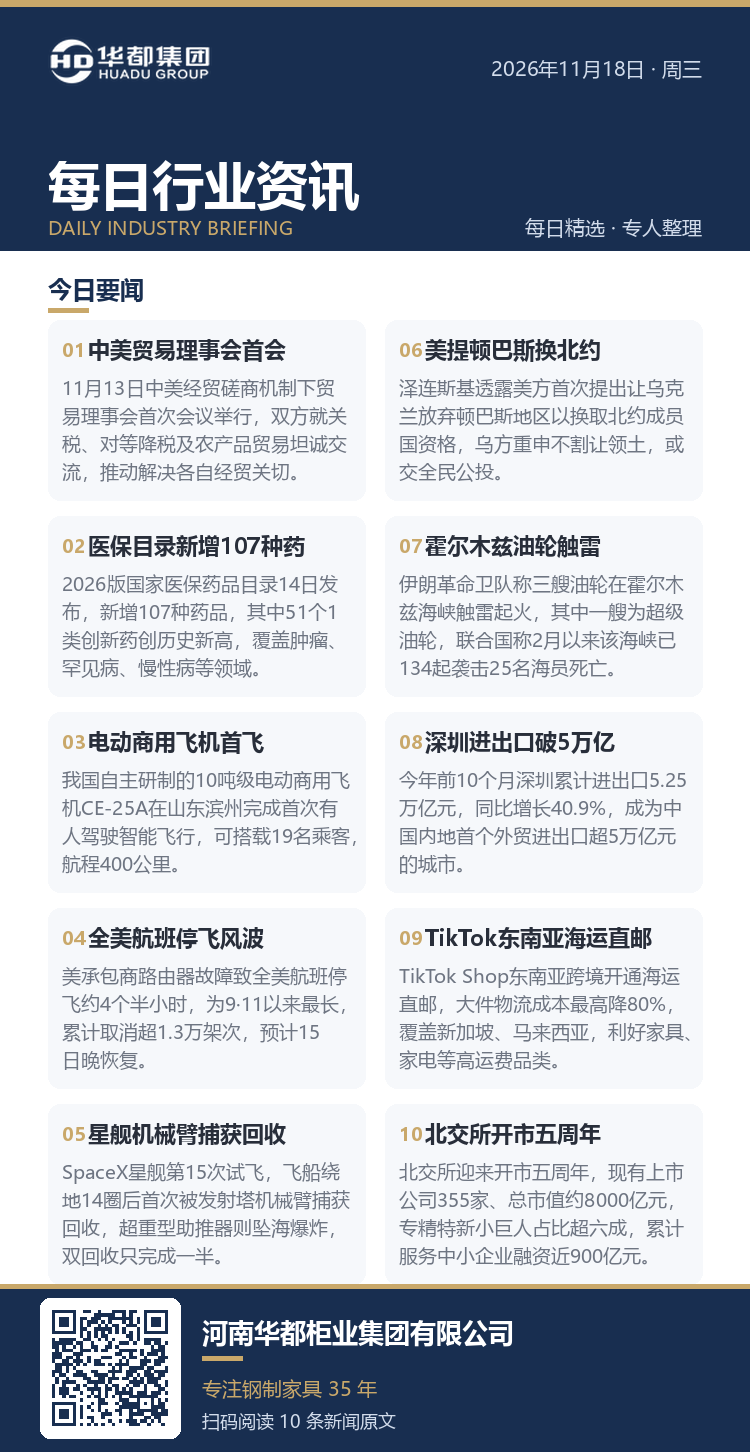
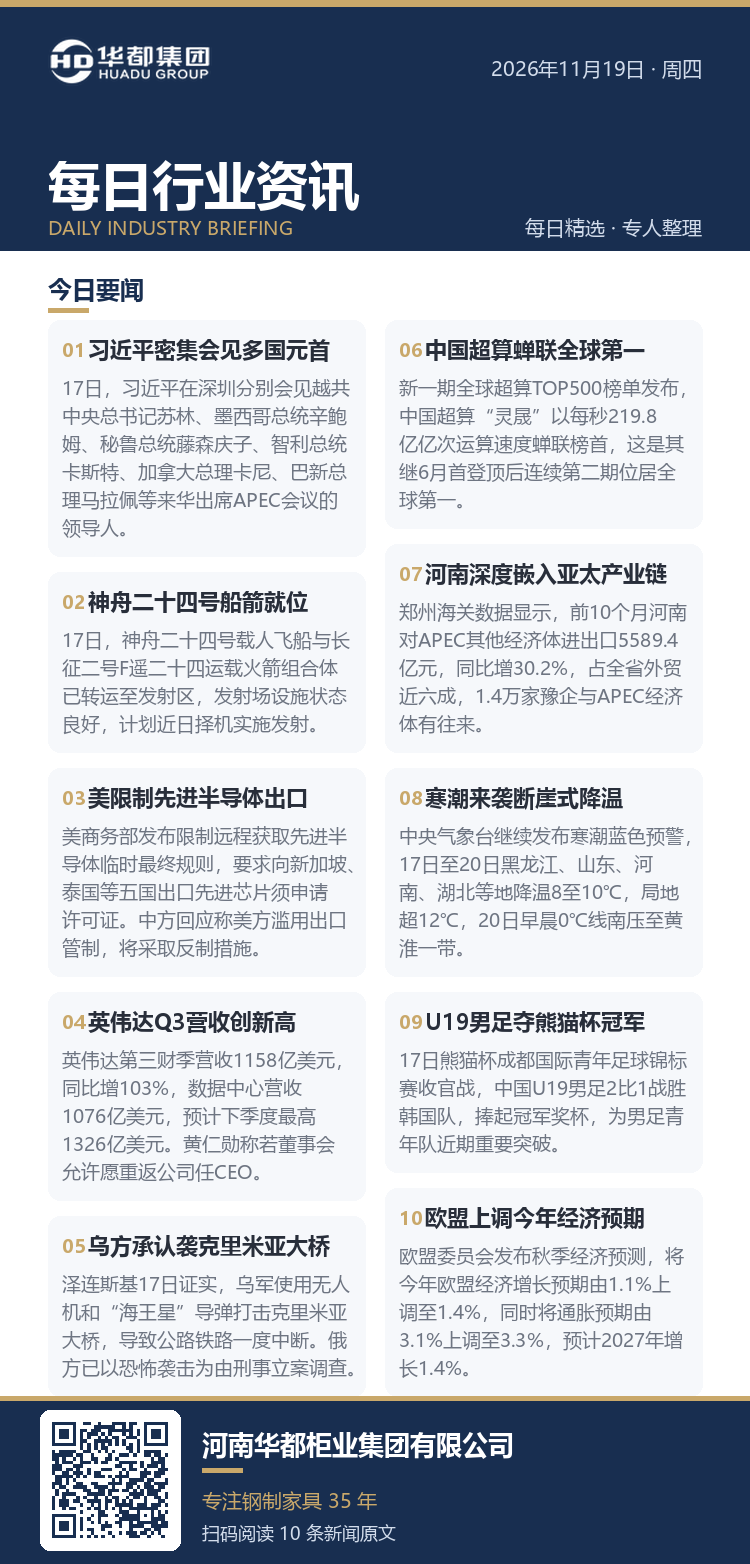
poster 2026-11-19

diff --git a/docs/index.html b/docs/index.html
@@ -1,7 +1,7 @@
 <!DOCTYPE html>
 <html lang="zh-CN"><head><meta charset="utf-8">
 <meta name="viewport" content="width=device-width,initial-scale=1,viewport-fit=cover">
-<title>华都每日行业资讯 · 2026-11-18</title>
+<title>华都每日行业资讯 · 2026-11-19</title>
 <style>
 * { margin:0; padding:0; box-sizing:border-box; }
 body { font-family:-apple-system,'PingFang SC','Microsoft YaHei',sans-serif;
@@ -34,13 +34,13 @@ body { font-family:-apple-system,'PingFang SC','Microsoft YaHei',sans-serif;
 </style></head><body>
 <div class="header"><div class="wrap">
 <h1>每日行业资讯</h1><div class="sub">DAILY INDUSTRY BRIEFING</div>
-<div class="date">2026-11-18 · 周三 · 每日精选 专人整理</div>
+<div class="date">2026-11-19 · 周四 · 每日精选 专人整理</div>
 </div></div>
 <div class="poster wrap">
 <div class="tip">👇 今日海报（长按图片即可保存 / 转发同事群）</div>
 <img src="latest.png" alt="今日行业资讯海报">
 </div>
-<div class="list wrap"><div class="sect">今日要闻</div><div class="card"><span class="no">01</span><h2>中美贸易理事会首会</h2><p>11月13日中美经贸磋商机制下贸易理事会首次会议举行，双方就关税、对等降税及农产品贸易坦诚交流，推动解决各自经贸关切。</p><div class="meta"><span class="src">新华社</span><a href="https://www.cnfin.com/yw-lb/detail/20261115/4495779_1.html" target="_blank" rel="noopener">阅读原文 →</a></div></div><div class="card"><span class="no">02</span><h2>医保目录新增107种药</h2><p>2026版国家医保药品目录14日发布，新增107种药品，其中51个1类创新药创历史新高，覆盖肿瘤、罕见病、慢性病等领域。</p><div class="meta"><span class="src">央视新闻</span><a href="https://news.bjd.com.cn/2026/11/15/12031029.shtml" target="_blank" rel="noopener">阅读原文 →</a></div></div><div class="card"><span class="no">03</span><h2>电动商用飞机首飞</h2><p>我国自主研制的10吨级电动商用飞机CE-25A在山东滨州完成首次有人驾驶智能飞行，可搭载19名乘客，航程400公里。</p><div class="meta"><span class="src">新华社</span><a href="https://www.cnfin.com/yw-lb/detail/20261115/4495779_1.html" target="_blank" rel="noopener">阅读原文 →</a></div></div><div class="card"><span class="no">04</span><h2>全美航班停飞风波</h2><p>美承包商路由器故障致全美航班停飞约4个半小时，为9·11以来最长，累计取消超1.3万架次，预计15日晚恢复。</p><div class="meta"><span class="src">央视新闻</span><a href="https://cbgc.scol.com.cn/news/8144454" target="_blank" rel="noopener">阅读原文 →</a></div></div><div class="card"><span class="no">05</span><h2>星舰机械臂捕获回收</h2><p>SpaceX星舰第15次试飞，飞船绕地14圈后首次被发射塔机械臂捕获回收，超重型助推器则坠海爆炸，双回收只完成一半。</p><div class="meta"><span class="src">每日经济新闻</span><a href="https://www.nbd.com.cn/articles/2026-11-14/4647866.html" target="_blank" rel="noopener">阅读原文 →</a></div></div><div class="card"><span class="no">06</span><h2>美提顿巴斯换北约</h2><p>泽连斯基透露美方首次提出让乌克兰放弃顿巴斯地区以换取北约成员国资格，乌方重申不割让领土，或交全民公投。</p><div class="meta"><span class="src">央视新闻</span><a href="https://www.nbd.com.cn/articles/2026-11-14/4647866.html" target="_blank" rel="noopener">阅读原文 →</a></div></div><div class="card"><span class="no">07</span><h2>霍尔木兹油轮触雷</h2><p>伊朗革命卫队称三艘油轮在霍尔木兹海峡触雷起火，其中一艘为超级油轮，联合国称2月以来该海峡已134起袭击25名海员死亡。</p><div class="meta"><span class="src">央视新闻</span><a href="https://www.nbd.com.cn/articles/2026-11-14/4647866.html" target="_blank" rel="noopener">阅读原文 →</a></div></div><div class="card"><span class="no">08</span><h2>深圳进出口破5万亿</h2><p>今年前10个月深圳累计进出口5.25万亿元，同比增长40.9%，成为中国内地首个外贸进出口超5万亿元的城市。</p><div class="meta"><span class="src">经济日报</span><a href="http://mp.weixin.qq.com/s?__biz=MjM5NjEyMzYxMg==&mid=2657820191&idx=1&sn=fd7eda43c5b2ea74f1951795e545512b&chksm=bc64c02e45f5c7a129482b9fa3f4c7163fbcae2037669d9091a12d9629f30f01449dc3c97c90#rd" target="_blank" rel="noopener">阅读原文 →</a></div></div><div class="card"><span class="no">09</span><h2>TikTok东南亚海运直邮</h2><p>TikTok Shop东南亚跨境开通海运直邮，大件物流成本最高降80%，覆盖新加坡、马来西亚，利好家具、家电等高运费品类。</p><div class="meta"><span class="src">36氪</span><a href="https://36kr.com/p/4070479711015809" target="_blank" rel="noopener">阅读原文 →</a></div></div><div class="card"><span class="no">10</span><h2>北交所开市五周年</h2><p>北交所迎来开市五周年，现有上市公司355家、总市值约8000亿元，专精特新小巨人占比超六成，累计服务中小企业融资近900亿元。</p><div class="meta"><span class="src">央视新闻</span><a href="https://www.cnfin.com/yw-lb/detail/20261115/4495779_1.html" target="_blank" rel="noopener">阅读原文 →</a></div></div></div>
+<div class="list wrap"><div class="sect">今日要闻</div><div class="card"><span class="no">01</span><h2>习近平密集会见多国元首</h2><p>17日，习近平在深圳分别会见越共中央总书记苏林、墨西哥总统辛鲍姆、秘鲁总统藤森庆子、智利总统卡斯特、加拿大总理卡尼、巴新总理马拉佩等来华出席APEC会议的领导人。</p><div class="meta"><span class="src">北京日报</span><a href="https://pc.bjd.com.cn/detail?id=s6afce713e4b039a8e2f3c122" target="_blank" rel="noopener">阅读原文 →</a></div></div><div class="card"><span class="no">02</span><h2>神舟二十四号船箭就位</h2><p>17日，神舟二十四号载人飞船与长征二号F遥二十四运载火箭组合体已转运至发射区，发射场设施状态良好，计划近日择机实施发射。</p><div class="meta"><span class="src">北京日报</span><a href="https://pc.bjd.com.cn/detail?id=s6afce713e4b039a8e2f3c122" target="_blank" rel="noopener">阅读原文 →</a></div></div><div class="card"><span class="no">03</span><h2>美限制先进半导体出口</h2><p>美商务部发布限制远程获取先进半导体临时最终规则，要求向新加坡、泰国等五国出口先进芯片须申请许可证。中方回应称美方滥用出口管制，将采取反制措施。</p><div class="meta"><span class="src">央广网</span><a href="https://www.cnr.cn/jingji/ycbd/20261118/t20261118_527876265.shtml" target="_blank" rel="noopener">阅读原文 →</a></div></div><div class="card"><span class="no">04</span><h2>英伟达Q3营收创新高</h2><p>英伟达第三财季营收1158亿美元，同比增103%，数据中心营收1076亿美元，预计下季度最高1326亿美元。黄仁勋称若董事会允许愿重返公司任CEO。</p><div class="meta"><span class="src">东方财富网</span><a href="https://www.cnr.cn/jingji/ycbd/20261118/t20261118_527876265.shtml" target="_blank" rel="noopener">阅读原文 →</a></div></div><div class="card"><span class="no">05</span><h2>乌方承认袭克里米亚大桥</h2><p>泽连斯基17日证实，乌军使用无人机和“海王星”导弹打击克里米亚大桥，导致公路铁路一度中断。俄方已以恐怖袭击为由刑事立案调查。</p><div class="meta"><span class="src">每日经济新闻</span><a href="https://www.mrjjxw.com/articles/2026-11-18/4650861.html" target="_blank" rel="noopener">阅读原文 →</a></div></div><div class="card"><span class="no">06</span><h2>中国超算蝉联全球第一</h2><p>新一期全球超算TOP500榜单发布，中国超算“灵晟”以每秒219.8亿亿次运算速度蝉联榜首，这是其继6月首登顶后连续第二期位居全球第一。</p><div class="meta"><span class="src">北京日报</span><a href="https://pc.bjd.com.cn/detail?id=s6afce713e4b039a8e2f3c122" target="_blank" rel="noopener">阅读原文 →</a></div></div><div class="card"><span class="no">07</span><h2>河南深度嵌入亚太产业链</h2><p>郑州海关数据显示，前10个月河南对APEC其他经济体进出口5589.4亿元，同比增30.2%，占全省外贸近六成，1.4万家豫企与APEC经济体有往来。</p><div class="meta"><span class="src">河南日报</span><a href="https://dzb.henandaily.cn/html5/2026-11/18/content_10_1820147.htm" target="_blank" rel="noopener">阅读原文 →</a></div></div><div class="card"><span class="no">08</span><h2>寒潮来袭断崖式降温</h2><p>中央气象台继续发布寒潮蓝色预警，17日至20日黑龙江、山东、河南、湖北等地降温8至10℃，局地超12℃，20日早晨0℃线南压至黄淮一带。</p><div class="meta"><span class="src">贵州改革</span><a href="http://mp.weixin.qq.com/s?__biz=MzIzNDYxNTcxOA==&mid=2247827865&idx=1&sn=04991b62a19219b16ac79dc9bd45848c&chksm=e96c1fd5104734226dbe063b6353731511a03c3155cf39c3df1beae92b1fc0e781234582cd9f#rd" target="_blank" rel="noopener">阅读原文 →</a></div></div><div class="card"><span class="no">09</span><h2>U19男足夺熊猫杯冠军</h2><p>17日熊猫杯成都国际青年足球锦标赛收官战，中国U19男足2比1战胜韩国队，捧起冠军奖杯，为男足青年队近期重要突破。</p><div class="meta"><span class="src">贵州改革</span><a href="http://mp.weixin.qq.com/s?__biz=MzIzNDYxNTcxOA==&mid=2247827865&idx=1&sn=04991b62a19219b16ac79dc9bd45848c&chksm=e96c1fd5104734226dbe063b6353731511a03c3155cf39c3df1beae92b1fc0e781234582cd9f#rd" target="_blank" rel="noopener">阅读原文 →</a></div></div><div class="card"><span class="no">10</span><h2>欧盟上调今年经济预期</h2><p>欧盟委员会发布秋季经济预测，将今年欧盟经济增长预期由1.1%上调至1.4%，同时将通胀预期由3.1%上调至3.3%，预计2027年增长1.4%。</p><div class="meta"><span class="src">新华社</span><a href="https://www.mrjjxw.com/articles/2026-11-18/4650861.html" target="_blank" rel="noopener">阅读原文 →</a></div></div></div>
 <div class="tip">点击「阅读原文」查看各家媒体报道全文</div>
 <div class="footer"><div class="co">河南华都柜业集团有限公司</div>
 <div class="slogan">专注钢制家具 35 年</div></div>

diff --git a/docs/2026-11-19.html b/docs/2026-11-19.html
@@ -1,0 +1,47 @@
+<!DOCTYPE html>
+<html lang="zh-CN"><head><meta charset="utf-8">
+<meta name="viewport" content="width=device-width,initial-scale=1,viewport-fit=cover">
+<title>华都每日行业资讯 · 2026-11-19</title>
+<style>
+* { margin:0; padding:0; box-sizing:border-box; }
+body { font-family:-apple-system,'PingFang SC','Microsoft YaHei',sans-serif;
+       background:#EEF1F5; color:#282E3A; -webkit-font-smoothing:antialiased; }
+.header { background:#182E50; padding:34px 20px 26px; border-bottom:4px solid #C9A86A; }
+.header h1 { color:#fff; font-size:26px; letter-spacing:1px; }
+.header .sub { color:#C9A86A; font-size:12px; letter-spacing:3px; margin-top:6px; }
+.header .date { color:#D2DCEB; font-size:13px; margin-top:14px; }
+.wrap { max-width:640px; margin:0 auto; }
+.poster { padding:16px 14px 4px; }
+.poster .tip { text-align:center; font-size:13px; color:#C9A86A; font-weight:600;
+               background:#fff; border:1px dashed #C9A86A; border-radius:10px;
+               padding:9px 10px; margin-bottom:10px; }
+.poster img { display:block; width:100%; height:auto; border-radius:12px;
+              box-shadow:0 2px 8px rgba(24,46,80,.15); }
+.list { padding:16px 14px 8px; }
+.sect { font-size:18px; font-weight:700; color:#182E50; padding:6px 2px 10px; }
+.card { background:#fff; border-radius:12px; padding:16px 16px 14px; margin-bottom:12px;
+        box-shadow:0 1px 3px rgba(24,46,80,.08); }
+.card .no { display:inline-block; color:#C9A86A; font-weight:700; font-size:14px; }
+.card h2 { font-size:17px; line-height:1.45; margin:4px 0 8px; }
+.card p { font-size:14px; line-height:1.75; color:#6E7582; }
+.card .meta { margin-top:10px; display:flex; justify-content:space-between; align-items:center; }
+.card .src { font-size:12px; color:#6E7582; background:#F6F8FB; padding:3px 10px; border-radius:10px; }
+.card a { font-size:13px; color:#182E50; font-weight:600; text-decoration:none; }
+.tip { text-align:center; font-size:12px; color:#6E7582; padding:4px 0 18px; }
+.footer { background:#182E50; color:#fff; text-align:center; padding:22px 16px 26px; border-top:4px solid #C9A86A; }
+.footer .co { font-size:15px; font-weight:700; }
+.footer .slogan { color:#C9A86A; font-size:12px; margin-top:6px; letter-spacing:2px; }
+</style></head><body>
+<div class="header"><div class="wrap">
+<h1>每日行业资讯</h1><div class="sub">DAILY INDUSTRY BRIEFING</div>
+<div class="date">2026-11-19 · 周四 · 每日精选 专人整理</div>
+</div></div>
+<div class="poster wrap">
+<div class="tip">👇 今日海报（长按图片即可保存 / 转发同事群）</div>
+<img src="latest.png" alt="今日行业资讯海报">
+</div>
+<div class="list wrap"><div class="sect">今日要闻</div><div class="card"><span class="no">01</span><h2>习近平密集会见多国元首</h2><p>17日，习近平在深圳分别会见越共中央总书记苏林、墨西哥总统辛鲍姆、秘鲁总统藤森庆子、智利总统卡斯特、加拿大总理卡尼、巴新总理马拉佩等来华出席APEC会议的领导人。</p><div class="meta"><span class="src">北京日报</span><a href="https://pc.bjd.com.cn/detail?id=s6afce713e4b039a8e2f3c122" target="_blank" rel="noopener">阅读原文 →</a></div></div><div class="card"><span class="no">02</span><h2>神舟二十四号船箭就位</h2><p>17日，神舟二十四号载人飞船与长征二号F遥二十四运载火箭组合体已转运至发射区，发射场设施状态良好，计划近日择机实施发射。</p><div class="meta"><span class="src">北京日报</span><a href="https://pc.bjd.com.cn/detail?id=s6afce713e4b039a8e2f3c122" target="_blank" rel="noopener">阅读原文 →</a></div></div><div class="card"><span class="no">03</span><h2>美限制先进半导体出口</h2><p>美商务部发布限制远程获取先进半导体临时最终规则，要求向新加坡、泰国等五国出口先进芯片须申请许可证。中方回应称美方滥用出口管制，将采取反制措施。</p><div class="meta"><span class="src">央广网</span><a href="https://www.cnr.cn/jingji/ycbd/20261118/t20261118_527876265.shtml" target="_blank" rel="noopener">阅读原文 →</a></div></div><div class="card"><span class="no">04</span><h2>英伟达Q3营收创新高</h2><p>英伟达第三财季营收1158亿美元，同比增103%，数据中心营收1076亿美元，预计下季度最高1326亿美元。黄仁勋称若董事会允许愿重返公司任CEO。</p><div class="meta"><span class="src">东方财富网</span><a href="https://www.cnr.cn/jingji/ycbd/20261118/t20261118_527876265.shtml" target="_blank" rel="noopener">阅读原文 →</a></div></div><div class="card"><span class="no">05</span><h2>乌方承认袭克里米亚大桥</h2><p>泽连斯基17日证实，乌军使用无人机和“海王星”导弹打击克里米亚大桥，导致公路铁路一度中断。俄方已以恐怖袭击为由刑事立案调查。</p><div class="meta"><span class="src">每日经济新闻</span><a href="https://www.mrjjxw.com/articles/2026-11-18/4650861.html" target="_blank" rel="noopener">阅读原文 →</a></div></div><div class="card"><span class="no">06</span><h2>中国超算蝉联全球第一</h2><p>新一期全球超算TOP500榜单发布，中国超算“灵晟”以每秒219.8亿亿次运算速度蝉联榜首，这是其继6月首登顶后连续第二期位居全球第一。</p><div class="meta"><span class="src">北京日报</span><a href="https://pc.bjd.com.cn/detail?id=s6afce713e4b039a8e2f3c122" target="_blank" rel="noopener">阅读原文 →</a></div></div><div class="card"><span class="no">07</span><h2>河南深度嵌入亚太产业链</h2><p>郑州海关数据显示，前10个月河南对APEC其他经济体进出口5589.4亿元，同比增30.2%，占全省外贸近六成，1.4万家豫企与APEC经济体有往来。</p><div class="meta"><span class="src">河南日报</span><a href="https://dzb.henandaily.cn/html5/2026-11/18/content_10_1820147.htm" target="_blank" rel="noopener">阅读原文 →</a></div></div><div class="card"><span class="no">08</span><h2>寒潮来袭断崖式降温</h2><p>中央气象台继续发布寒潮蓝色预警，17日至20日黑龙江、山东、河南、湖北等地降温8至10℃，局地超12℃，20日早晨0℃线南压至黄淮一带。</p><div class="meta"><span class="src">贵州改革</span><a href="http://mp.weixin.qq.com/s?__biz=MzIzNDYxNTcxOA==&mid=2247827865&idx=1&sn=04991b62a19219b16ac79dc9bd45848c&chksm=e96c1fd5104734226dbe063b6353731511a03c3155cf39c3df1beae92b1fc0e781234582cd9f#rd" target="_blank" rel="noopener">阅读原文 →</a></div></div><div class="card"><span class="no">09</span><h2>U19男足夺熊猫杯冠军</h2><p>17日熊猫杯成都国际青年足球锦标赛收官战，中国U19男足2比1战胜韩国队，捧起冠军奖杯，为男足青年队近期重要突破。</p><div class="meta"><span class="src">贵州改革</span><a href="http://mp.weixin.qq.com/s?__biz=MzIzNDYxNTcxOA==&mid=2247827865&idx=1&sn=04991b62a19219b16ac79dc9bd45848c&chksm=e96c1fd5104734226dbe063b6353731511a03c3155cf39c3df1beae92b1fc0e781234582cd9f#rd" target="_blank" rel="noopener">阅读原文 →</a></div></div><div class="card"><span class="no">10</span><h2>欧盟上调今年经济预期</h2><p>欧盟委员会发布秋季经济预测，将今年欧盟经济增长预期由1.1%上调至1.4%，同时将通胀预期由3.1%上调至3.3%，预计2027年增长1.4%。</p><div class="meta"><span class="src">新华社</span><a href="https://www.mrjjxw.com/articles/2026-11-18/4650861.html" target="_blank" rel="noopener">阅读原文 →</a></div></div></div>
+<div class="tip">点击「阅读原文」查看各家媒体报道全文</div>
+<div class="footer"><div class="co">河南华都柜业集团有限公司</div>
+<div class="slogan">专注钢制家具 35 年</div></div>
+</body></html>
